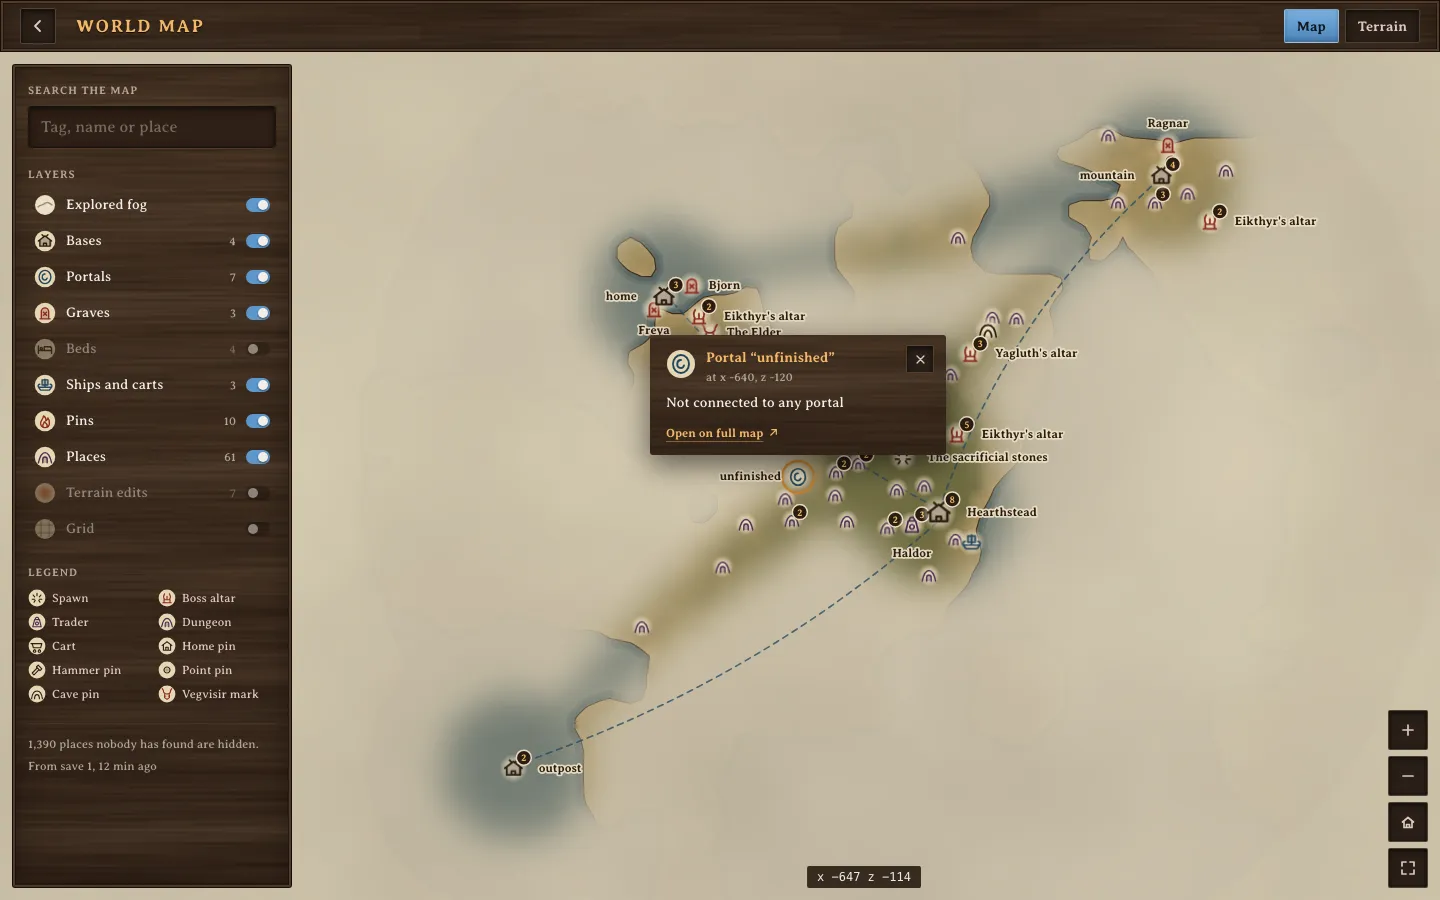
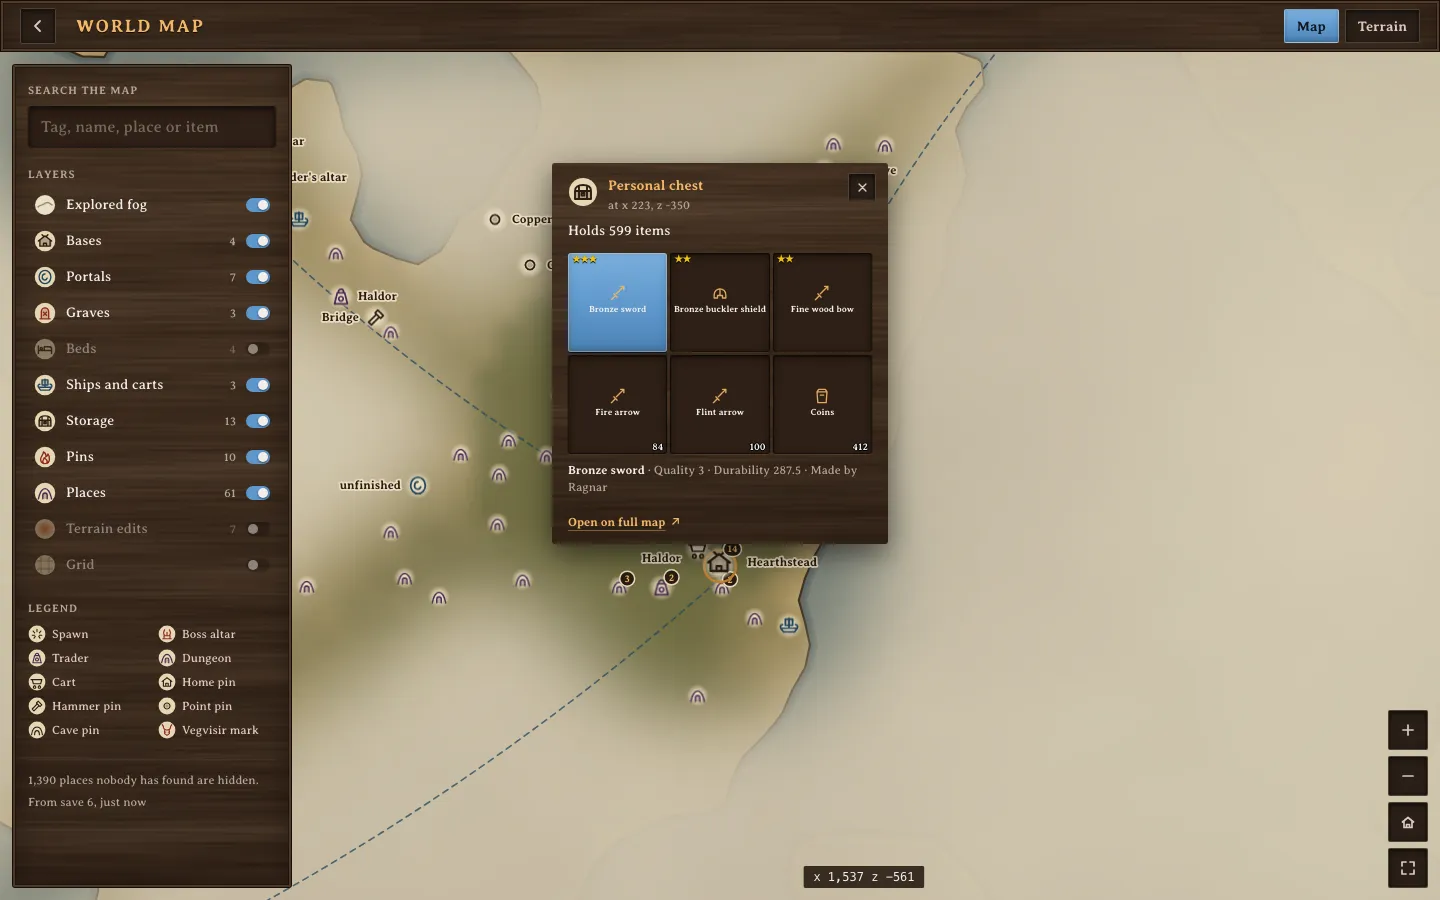
docs: player storage and the village stores; map screenshot with a chest open

diff --git a/README.md b/README.md
@@ -22,6 +22,7 @@ to the server and puts it all on one password-protected page:
 - who is online, who played when, and how often they died
 - the world: in-game day and time of day, seed, last save
 - a world map drawn from the save: explored land, bases, portals and where they lead, graves, beds, ships, map pins, and the bosses and dungeons someone has found
+- the village stores: what is in every chest, cart and ship players built, added up and searchable ("where is our iron?"), one tap from the spot on the map
 - backups you can download, plus backup / update / restart buttons (press and hold, so nobody restarts by accident)
 - player profiles with streaks and badges
 - server settings: name, password, public listing and world modifiers, applied now or once everyone has left
@@ -43,17 +44,20 @@ optional campfire crackle if you want it.
 
 ## World map
 
-<img src="docs/images/map.webp" alt="The world map: an inked archipelago on parchment, fog over the unexplored, bases, paired portals with a dashed line between them, graves and places found, crowded spots gathered into counted clusters, a layer panel with counts and a popover for an unconnected portal" width="100%" />
+<img src="docs/images/map.webp" alt="The world map: an inked archipelago on parchment, bases, portals, graves and places found, crowded spots gathered into counted clusters, a layer panel with counts including Storage, and a personal chest open as a grid of slots: a three-star bronze sword picked out with its quality, durability and maker, arrows and coins" width="100%" />
 
 The map is drawn from the world save itself: the land, sea and coasts the
 world has generated, the area your cartography tables have explored, and
-what people built and left behind. Each layer can be switched off, the search
-finds portal tags, names and places, and every mark links to the same spot
+what people built and left behind. Chests, carts and ships open as a grid of
+slots like the game's own, graves show what was left in them, each layer can
+be switched off, the search finds portal tags, names, places and items, and
+every mark links to the same spot
 on [valheim-map.world](https://valheim-map.world/), which also fills the
 Terrain tab. It opens on the explored area, gathers crowded spots into
 clusters you tap to open, and on a phone takes pinches, double taps (in) and
 two-finger taps (out). Places nobody has found stay hidden unless you set
-`MAP_SPOILERS=true`. Details in [docs/configuration.md](docs/configuration.md#world-map).
+`MAP_SPOILERS=true`. Only what players built is read for storage: treasure,
+shipwreck and dungeon chests never show up, nor what is in them. Details in [docs/configuration.md](docs/configuration.md#world-map).
 
 ## Server settings
 

diff --git a/CHANGELOG.md b/CHANGELOG.md
@@ -8,6 +8,24 @@ All notable changes to this project are documented here. The format follows
 
 ### Added
 
+- Player storage. The agent reads what is in every chest, cart and ship a
+  player built (Valheim 1.0's compact inventory format, documented in
+  `agent/internal/worldmap/inventory.go`) and in graves, and adds it to the
+  map snapshot; world-generated chests (treasure, shipwreck, dungeon loot) are
+  never read. Crafter names follow `MAP_SHOW_NAMES`; crafter ids are never
+  read. An inventory in a layout the agent does not know is marked unreadable
+  rather than guessed at.
+- `/api/storage`: the containers alone, cut from the cached map with their own
+  ETag.
+- Map: a Storage layer with the chests; chests, carts, ships and graves open as
+  a slot grid (stack counts, quality stars, durability and maker on tap);
+  carts and ships say what they are loaded with; the map search finds items.
+- Village stores (the Saga tab on phones, a board on wider screens):
+  everything in the stores added up by kind, searchable in English and
+  Polish whatever the UI language ("iron" and "żelazo" both work); an item
+  lists where it is, most first, and "Show on map" opens that container with
+  every place holding it ringed.
+
 - Phone layout (up to 639 px wide, and landscape phones): a bottom tab bar
   with Fire, Map, Saga (saga, ranking, who sat by the fire) and Settings
   (server settings, language, campfire sound, log out, runes, forge,

diff --git a/docs/configuration.md b/docs/configuration.md
@@ -134,10 +134,16 @@ new save. It reads:
 - portals (paired by their connection, else by a tag exactly two share),
   graves, beds, ships and carts, bases (zones with built pieces that touch),
   terrain edits, and the seed's locations from the `.db2`.
+- what is in the chests, carts and ships players built (pieces that carry a
+  creator), and in graves. Chests the world generated (treasure, shipwreck
+  and dungeon chests) are never read, so neither they nor their loot show
+  up anywhere. Crafter names follow `MAP_SHOW_NAMES`; crafter ids are never
+  read. An inventory in a layout the agent does not know is shown as
+  unreadable rather than guessed at.
 
 On the real 1.0 world used to work out the format (about 376,000 objects
 in 35 chunks) a full build takes about 0.04 s and 22 MB of allocations, and
-the map is 26 KB gzipped.
+the map is 26 KB gzipped (30 KB with the 47 containers and their items).
 
 Spoilers: the agent marks a location explored when it is inside the
 explored area or within 64 m of a built piece. The web tier drops everything
